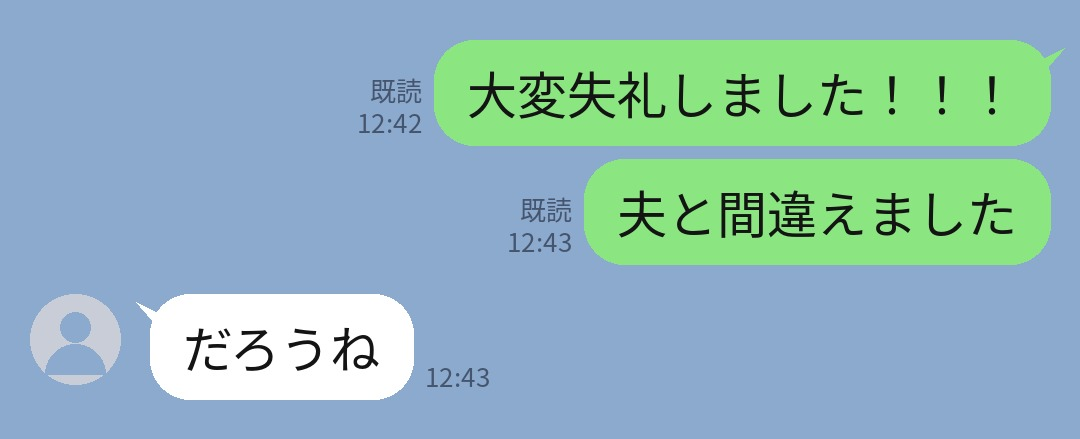
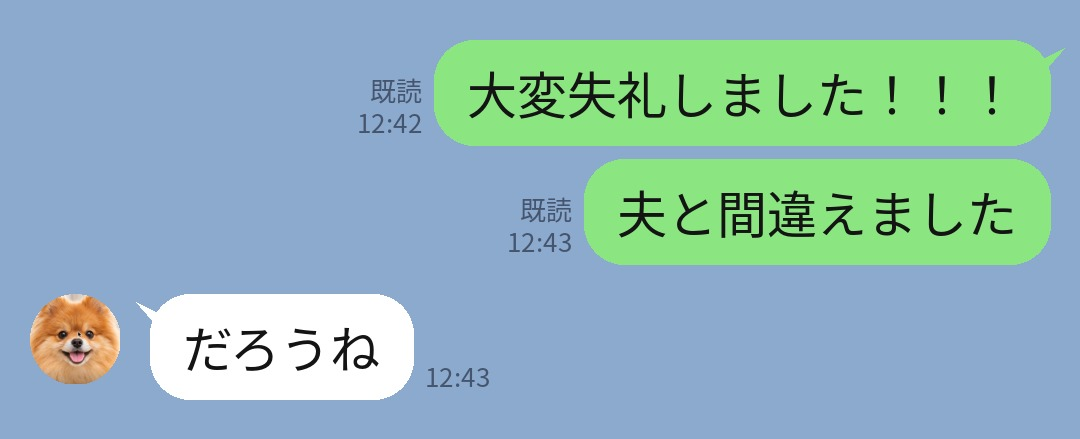
No.49: 部長のアイコンをポメラニアンに、1枚目の名前はモザイクのみに
Claude-Session: https://claude.ai/code/session_01BYBmBvznVWhAgsHTXx74AL

Changed region(s): [[0.0306, 0.6515, 0.1222, 0.8884]]

diff --git a/hikaku15/plans/049/common.md b/hikaku15/plans/049/common.md
@@ -25,10 +25,10 @@
 　・【左右の吹き出しが重なる目安】左の吹き出しの右端は「11％＋6％＋文字数×4.8％」、右の吹き出しの左端は「98％−6％−文字数×4.8％」。相手と自分の文字数（1行目）の合計が16文字を超えると、左の吹き出しの右端が右の吹き出しの左端より右に来て、上下に並んだ吹き出しが横方向で重なって見える（例：12文字と12文字なら大きく重なる。8文字と8文字でほぼ接する。5文字と3文字なら真ん中が少しあく）。真ん中に大きな空白ができるのは、どちらも短いときだけ。文字を小さくして真ん中をあけない
 　・「既読」と時刻の文字：高さ約2.2％（約34px）の灰色の小さな文字で、吹き出しの外側の下の端（右の吹き出しは左側、左の吹き出しは右側）に置く
 　・【吹き出しの上下の間隔】吹き出しどうしの上下の空きはとても狭い。相手と自分が入れ替わるところでも約1.3％（約20px）、同じ人が続けて送ったときは約0.8％（約12px）。上下に間延びした空白を作らない
-・これは私（女性）のスマホの画面。トーク相手は男性の佐藤部長で、LINEの登録名は「佐藤部長」。画面の右側の吹き出し＝私（自分）、左側の吹き出し＝佐藤部長（相手）
+・これは私（女性）のスマホの画面。トーク相手は男性の佐藤部長で、LINEの登録名は「佐藤 健二」（画面ではモザイクで隠す）。画面の右側の吹き出し＝私（自分）、左側の吹き出し＝佐藤部長（相手）
 ・背景：LINEの標準のトーク画面と同じ、くすんだ水色（#8CABD8）の無地。模様やキャラクターは入れない
 ・右の吹き出し（私＝自分）：LINEと同じ明るい緑（#8DE055）の角丸の吹き出しで、右上に小さなしっぽ。文字は黒。吹き出しの左下に、小さな白っぽい文字で「既読」、その下に時刻（例：13:02）
-・左の吹き出し（佐藤部長＝相手）：白い角丸の吹き出しで、左上に小さなしっぽ。文字は黒。吹き出しの左に、小さな丸いプロフィールアイコン（顔の見えない、青空の風景写真のアイコン）。吹き出しの右下に、小さな白っぽい文字で時刻。1対1のトークなので、吹き出しの上に名前は出さない
+・左の吹き出し（佐藤部長＝相手）：白い角丸の吹き出しで、左上に小さなしっぽ。文字は黒。吹き出しの左に、小さな丸いプロフィールアイコン（オレンジ色のふわふわのポメラニアンの顔のアップの写真。私の夫のアイコンも同じような犬なので間違えた）。吹き出しの右下に、小さな白っぽい文字で時刻。1対1のトークなので、吹き出しの上に名前は出さない
 ・同じ人が続けて送ったときは、2つ目以降の吹き出しにはアイコンを付けない（LINEと同じ）
 ・文字：LINEと同じような、すっきりしたゴシック体。上の【縮尺】どおりの大きな文字
 ・通話の履歴：LINEと同じ、吹き出しの形の中に受話器のアイコンと「応答なし」または「不在着信」、その横に通話の時刻。かけた側の色の吹き出しにする（私がかけた＝右の緑、佐藤部長がかけた＝左の白）
@@ -41,7 +41,7 @@
 
 【トリミング（この投稿案だけ。画像ごとに比率が変わる）】
 ・本物のLINEのスクショを切り抜いたように、メッセージ以外の余計な余白がない画像にする。比率は画像ごとに違ってよい
-・1枚目：上のLINEの帯（「＜」と「佐藤部長」）から、最後の吹き出しの下までを残す
+・1枚目：上のLINEの帯（「＜」とモザイクをかけた名前）から、最後の吹き出しの下までを残す
 ・2枚目以降：上の帯は描かない。メッセージのやりとりの部分だけを残す
 ・手順：まず横長3:2で生成する（上の【縮尺】どおりの大きさで描き、上下の余白は水色の背景だけにする）。生成した画像を、Python（Pillow）で次のように加工してから保存する。上下の余白を切り、メッセージとメッセージの間の空きすぎも、本物のLINEと同じくらいの間隔に詰める。左右は切らない
 ```python
@@ -75,7 +75,7 @@ out.save("NN.jpg", quality=92)
 ・各ページの「切り抜き後の比率の目安」と大きくずれた（縦に余白が残りすぎた）ときは、もう一度だけ切り直す
 
 【1枚目だけ】
-・画面のいちばん上に、LINEのトーク画面の上の帯（背景と同じ水色の細い帯）。左に「＜」、中央より左寄りに太い黒い文字で相手の名前「佐藤部長」だけを出す。右側に、虫めがね・電話・三本線の小さなアイコン。私（自分）の名前は出さない
+・画面のいちばん上に、LINEのトーク画面の上の帯（背景と同じ水色の細い帯）。左に「＜」、中央より左寄りに太い黒い文字で相手の名前（登録名「佐藤 健二」）を出し、その名前の部分全体に四角いモザイクをかけて読めなくする。「部長」という文字はどこにも出さない。右側に、虫めがね・電話・三本線の小さなアイコン。私（自分）の名前は出さない
 
 【1枚目の見え方（いちばん大事）】
 ・Xのタイムラインでは、横長の1枚目は真ん中の横幅3分の1（左から約33〜67％）だけが表示される。1枚目の1つ目の吹き出しは、その見える部分に、決めた文字だけが入るように作ってある

diff --git a/hikaku15/plans/049/01.md b/hikaku15/plans/049/01.md
@@ -6,9 +6,9 @@
 ・私（右の緑の吹き出し・既読つき）12:31：「だーりん、お昼食べた？♡」　→12文字・1行・吹き出しの幅は横幅の約64％
 ・私（右の緑の吹き出し・既読つき）12:31：「今夜はハンバーグだよ」　→10文字・1行・吹き出しの幅は横幅の約54％
 ・佐藤部長（左の白い吹き出し）12:35：「ハンバーグ、楽しみにしてるよ」　→14文字・2行・吹き出しの幅は横幅の約64％
-② いちばん上のLINEの帯（1枚目だけ）：「＜」と相手の名前「佐藤部長」だけ。私の名前は出さない
+② いちばん上のLINEの帯（1枚目だけ）：「＜」と相手の名前だけ（名前全体にモザイクをかけて読めなくする）。私の名前は出さない
 ②の2 Xのタイムラインでの見え方（1枚目だけ・いちばん大事）：タイムラインでは画像の真ん中の横幅3分の1（左から約33〜67％）だけが見える。1つ目の吹き出し「だーりん、お昼食べた？♡」（12文字）は、1文字＝横幅の約4.8％の大きさで、文字の書き出しを左端から約14％の位置にし、12文字を必ず1行に収める（折り返さない・文字を小さくしない・吹き出しを左に寄せたまま）。こうすると、タイムラインでは5〜11文字目の「、お昼食べた？」だけが見える。返事の吹き出し「今夜はハンバーグだよ」は短いまま右端にそろえる（真ん中に寄せない）。この2つの吹き出し以外は描かない
 ③ 注意点：生成は横長3:2。共通設定の【縮尺】どおり、本物のLINEのスクショと同じ大きさの文字と吹き出しで描く（1文字の幅＝横幅の約4.8％、1行は最大12文字。文字を小さくしない）。吹き出しは画面の上下の真ん中あたりに、本物のLINEと同じ狭い間隔（相手と自分が入れ替わるところも横幅の約1.3％、約20pxだけ）でぎゅっと詰めて並べ、上下の余白は背景の水色だけにする（あとで切り取るため、余白に何も描かない）。トーク画面の切り抜きだけを描き、スマホの外枠や入力欄は描かない。指定のない吹き出し・文字・ロゴは描かない。性的な絵は描かない
-④ 保存の前に：共通設定の【トリミング】の手順で、上下の余白を切り取る（左右は切らない）。1枚目なので、上のLINEの帯（「＜」と「佐藤部長」）は残す。切り抜き後の比率の目安：横:縦＝2.08:1
+④ 保存の前に：共通設定の【トリミング】の手順で、上下の余白を切り取る（左右は切らない）。1枚目なので、上のLINEの帯（「＜」とモザイクをかけた名前）は残す。切り抜き後の比率の目安：横:縦＝2.08:1
 
 【1/12】の画像を1枚だけ生成し、トリミングしてから保存してください。
